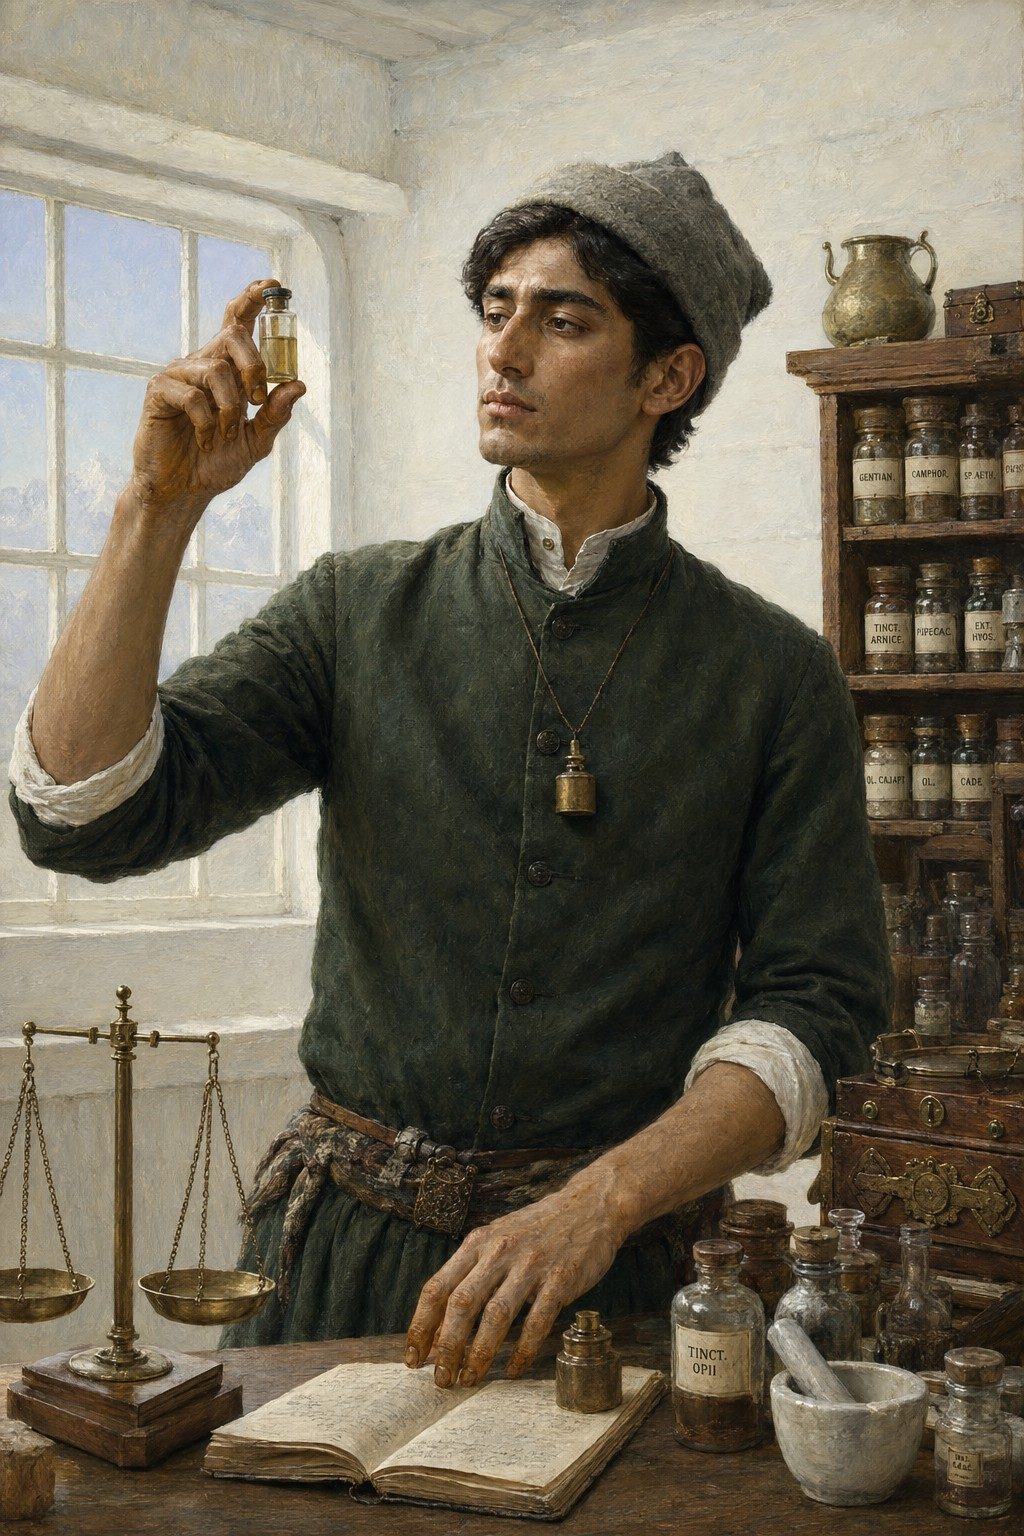
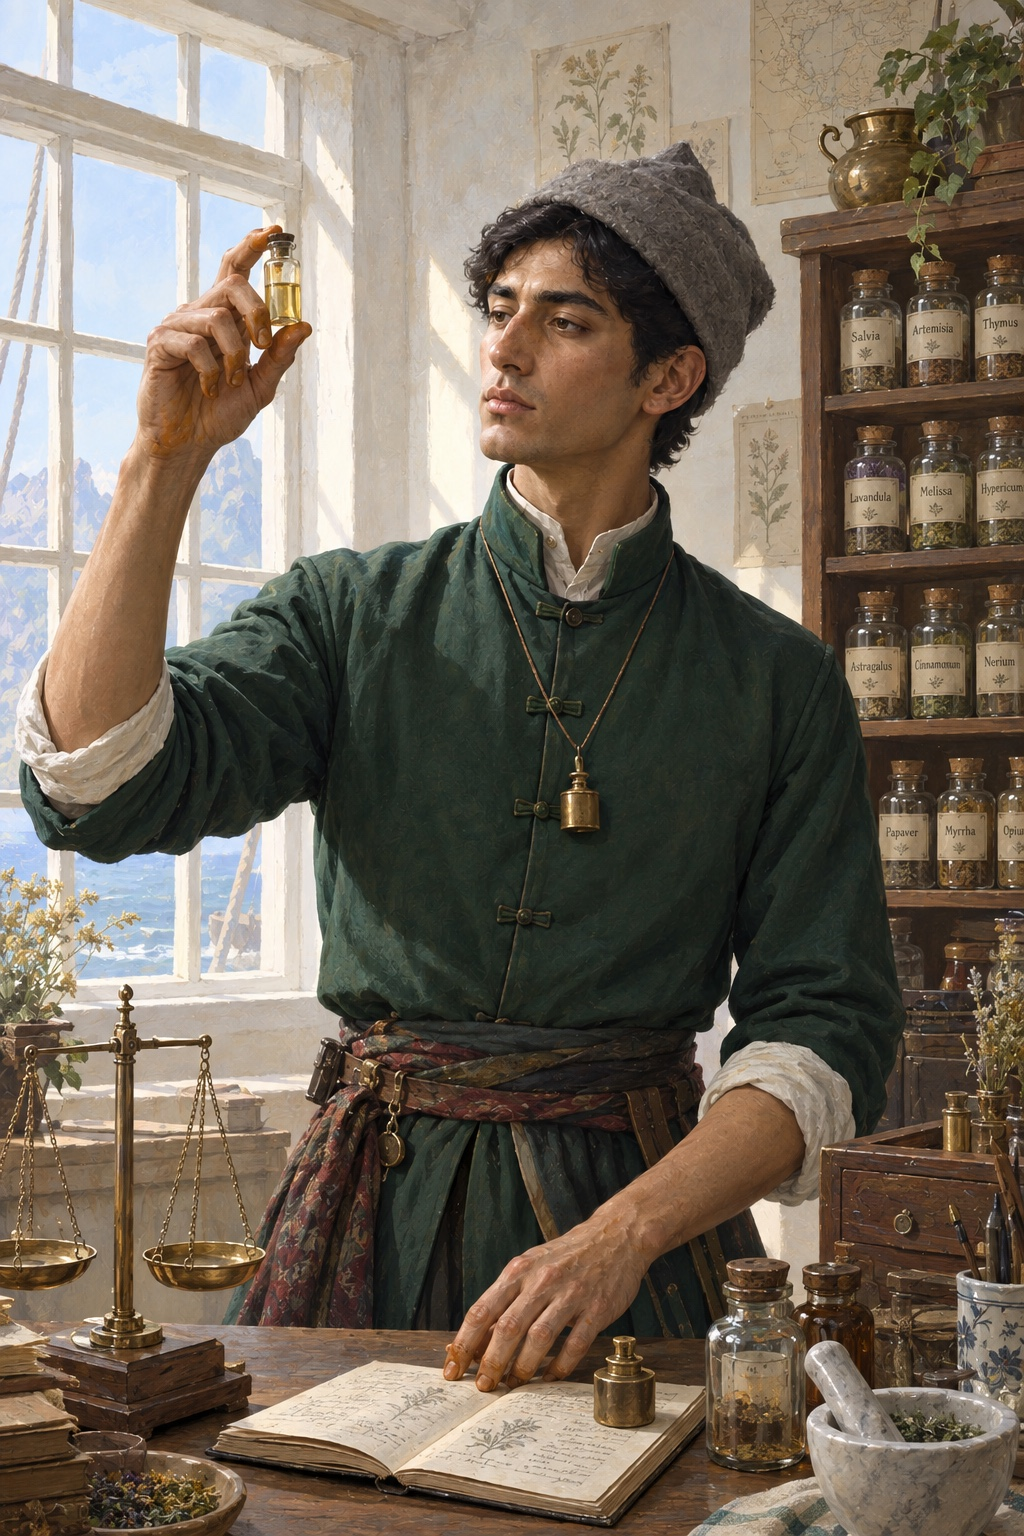
Ларри — Пороховая сноровка, черта Крепкий у Бруно, новый портрет Сурена
Claude-Session: https://claude.ai/code/session_012mt2ovGriQNnzXjTxR5i8Z

diff --git a/src/Characters/Larry-Croft/index.md b/src/Characters/Larry-Croft/index.md
@@ -83,9 +83,9 @@ combat:
 
 <h2 id="feats">Черты</h2>
 
-Обе выданы мастером за отыгрыш: страх и трофей, что из него вырос.
+Две выданы мастером за отыгрыш — страх и трофей, что из него вырос; третья взята на 4-м уровне вместо повышения характеристик.
 
-{% featPicks "phobia:1:Волки, лютоволки и даже обычные собаки; fear-symbol:3:Волчьи уши — шапка из шкуры волка, что едва его не убил. Запугивающий давит на волчью тему, если рычит, носит волчьи шкуры или поминает клыки" %}
+{% featPicks "phobia:1:Волки, лютоволки и даже обычные собаки; fear-symbol:3:Волчьи уши — шапка из шкуры волка, что едва его не убил. Запугивающий давит на волчью тему, если рычит, носит волчьи шкуры или поминает клыки; gunnery:4:Вместо повышения характеристик — два пистоля за поясом наконец перестали быть просто украшением" %}
 
 ---
 

diff --git a/src/Characters/Bruno/index.md b/src/Characters/Bruno/index.md
@@ -74,7 +74,7 @@ combat:
 
 ## Особенности
 
-- **Крепкий:** получает дополнительные +2 КЗ за каждый уровень
+- **[Крепкий](../../Feats/#feat-tough)**
 
 - **[Второе дыхание](../../Classes/fighter/#second-wind)**
 
@@ -88,4 +88,4 @@ combat:
 
 Боец выбирает боевой стиль на 1-м уровне, а дальше может выбрать черты вместо повышения характеристик.
 
-{% featPicks "great-weapon:1:Боевой стиль бойца" %}
+{% featPicks "tough:1:Дана мастером за предысторию; great-weapon:1:Боевой стиль бойца" %}

diff --git a/src/_data/feats/94-tough.md b/src/_data/feats/94-tough.md
@@ -1,0 +1,6 @@
+---
+name: Крепкий
+group: common
+sphere: growth
+---
+Тебя трудно свалить: максимум хитов увеличивается на **2 за каждый уровень**, включая уже взятые, и растёт на 2 с каждым новым.
